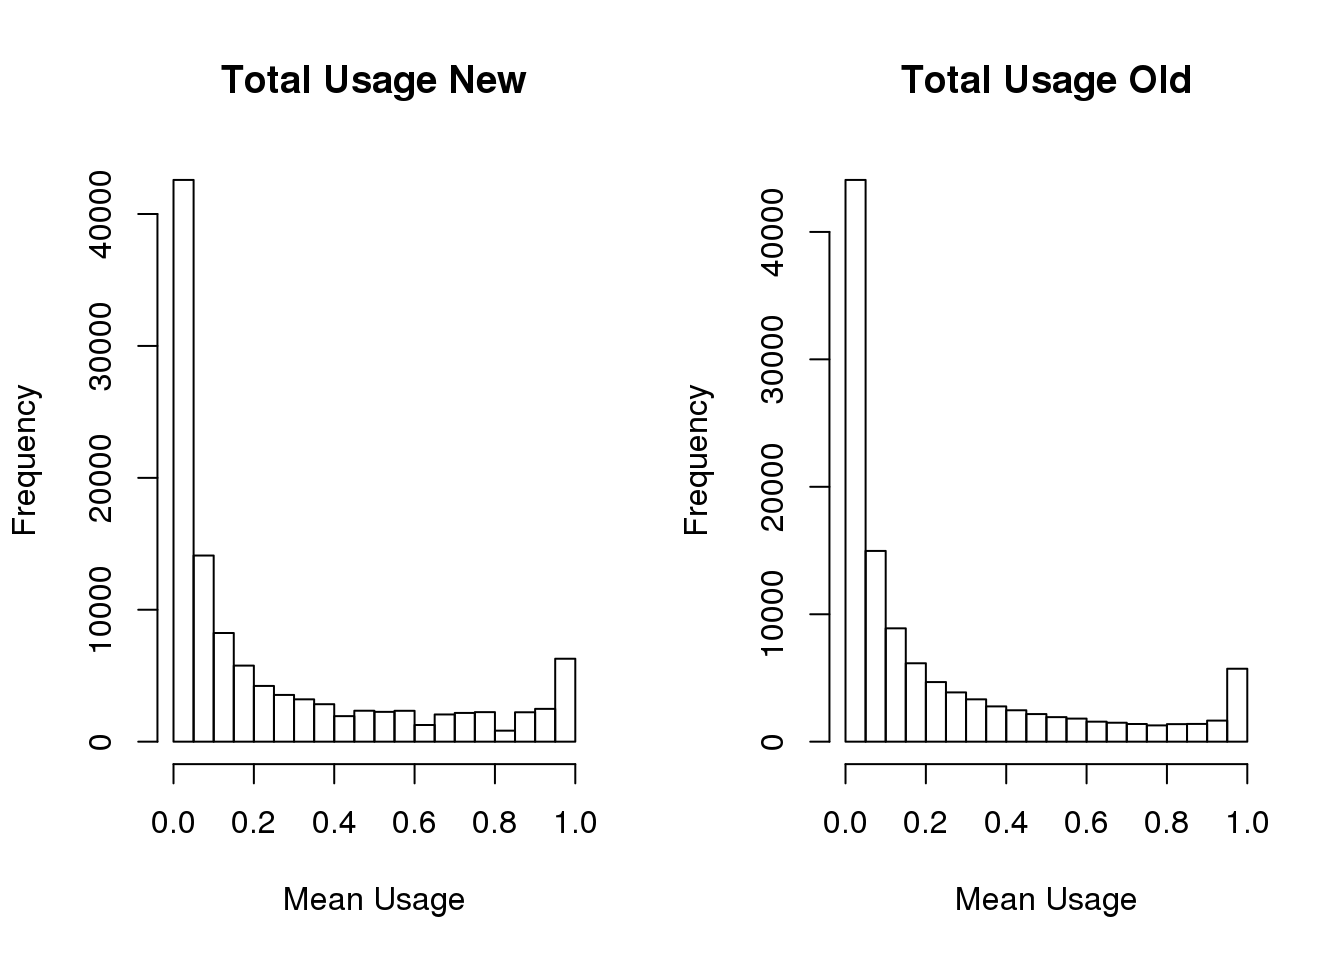
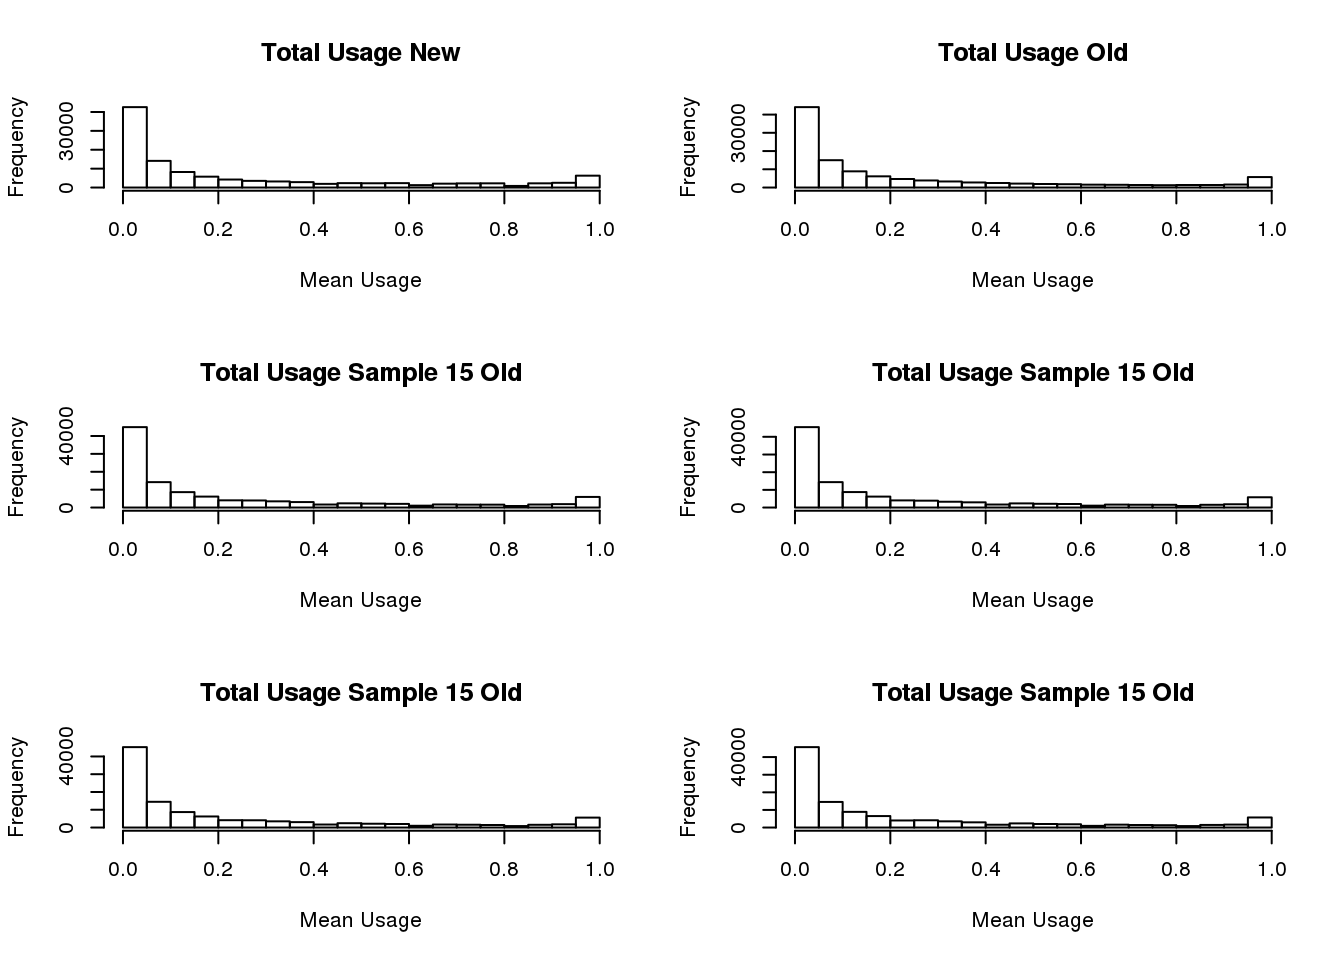
Build site.

diff --git a/docs/NewvOldPeakQC.html b/docs/NewvOldPeakQC.html
@@ -422,10 +422,10 @@ This reproducible <a href="http://rmarkdown.rstudio.com">R Markdown</a> analysis
 <div class="panel panel-default">
 <div class="panel-heading">
 <p class="panel-title">
-<a data-toggle="collapse" data-parent="#workflowr-checks" href="#strongRepositoryversionstrongahrefhttpsgithubcombrimittlemanapaQTLtreef5e6fd66e6d8d41ee88c200a55cb39e2d0494d66targetblankf5e6fd6a"> <span class="glyphicon glyphicon-ok text-success" aria-hidden="true"></span> <strong>Repository version:</strong> <a href="https://github.com/brimittleman/apaQTL/tree/f5e6fd66e6d8d41ee88c200a55cb39e2d0494d66" target="_blank">f5e6fd6</a> </a>
+<a data-toggle="collapse" data-parent="#workflowr-checks" href="#strongRepositoryversionstrongahrefhttpsgithubcombrimittlemanapaQTLtree3153f49ecd4c0b6cd0e0eb18401c762f33700c6btargetblank3153f49a"> <span class="glyphicon glyphicon-ok text-success" aria-hidden="true"></span> <strong>Repository version:</strong> <a href="https://github.com/brimittleman/apaQTL/tree/3153f49ecd4c0b6cd0e0eb18401c762f33700c6b" target="_blank">3153f49</a> </a>
 </p>
 </div>
[2 lines of base64/hex data omitted]
 <div class="panel-body">
 <p>
 Great! You are using Git for version control. Tracking code development and connecting the code version to the results is critical for reproducibility. The version displayed above was the version of the Git repository at the time these results were generated. <br><br> Note that you need to be careful to ensure that all relevant files for the analysis have been committed to Git prior to generating the results (you can use <code>wflow_publish</code> or <code>wflow_git_commit</code>). workflowr only checks the R Markdown file, but you know if there are other scripts or data files that it depends on. Below is the status of the Git repository when the results were generated:
@@ -605,6 +605,40 @@ Message
 </tr>
 </thead>
 <tbody>
+<tr>
+<td>
+Rmd
+</td>
+<td>
+<a href="https://github.com/brimittleman/apaQTL/blob/3153f49ecd4c0b6cd0e0eb18401c762f33700c6b/analysis/NewvOldPeakQC.Rmd" target="_blank">3153f49</a>
+</td>
+<td>
+brimittleman
+</td>
+<td>
+2019-05-01
+</td>
+<td>
+old hists
+</td>
+</tr>
+<tr>
+<td>
+html
+</td>
+<td>
+<a href="https://rawcdn.githack.com/brimittleman/apaQTL/15e195f787e3347dcffd6a0c82574e29700290a8/docs/NewvOldPeakQC.html" target="_blank">15e195f</a>
+</td>
+<td>
+brimittleman
+</td>
+<td>
+2019-05-01
+</td>
+<td>
+Build site.
+</td>
+</tr>
 <tr>
 <td>
 Rmd
@@ -810,23 +844,58 @@ newInd=batch4$line</code></pre>
   hist(meanVec, main=title,xlab=&quot;Mean Usage&quot;)
 }</code></pre>
 <p>RUn this for different itterations of individuals:</p>
-<pre class="r"><code>par(mfrow=c(1,2))
-#old ind
-UsageHist(indVec=newInd,title=&quot;Total Usage New&quot;,totUsage=totUsage)
-UsageHist(indVec=oldind,title=&quot;Total Usage Old&quot;,totUsage=totUsage)</code></pre>
-<p><img src="figure/NewvOldPeakQC.Rmd/unnamed-chunk-10-1.png" width="672" style="display: block; margin: auto;" /> Pick 15 random individuals from old:</p>
+<p>Pick 15 random individuals from old:</p>
 <pre class="r"><code>sampl1=sample(oldind, 15)
 sampl2=sample(oldind, 15)
 sampl3=sample(oldind, 15)
 sampl4=sample(oldind, 15)
 
 
-par(mfrow=c(2,2))
+par(mfrow=c(3,2))
+UsageHist(indVec=newInd,title=&quot;Total Usage New&quot;,totUsage=totUsage)
+UsageHist(indVec=oldind,title=&quot;Total Usage Old&quot;,totUsage=totUsage)
 UsageHist(indVec=sampl1,title=&quot;Total Usage Sample 15 Old&quot;,totUsage=totUsage)
 UsageHist(indVec=sampl2,title=&quot;Total Usage Sample 15 Old&quot;,totUsage=totUsage)
 UsageHist(indVec=sampl3,title=&quot;Total Usage Sample 15 Old&quot;,totUsage=totUsage)
 UsageHist(indVec=sampl4,title=&quot;Total Usage Sample 15 Old&quot;,totUsage=totUsage)</code></pre>
-<p><img src="figure/NewvOldPeakQC.Rmd/unnamed-chunk-11-1.png" width="672" style="display: block; margin: auto;" /></p>
+<p><img src="figure/NewvOldPeakQC.Rmd/unnamed-chunk-10-1.png" width="672" style="display: block; margin: auto;" /></p>
+<p>
+<button type="button" class="btn btn-default btn-xs btn-workflowr btn-workflowr-fig" data-toggle="collapse" data-target="#fig-unnamed-chunk-10-1">
+Past versions of unnamed-chunk-10-1.png
+</button>
+</p>
+<div id="fig-unnamed-chunk-10-1" class="collapse">
+<div class="table-responsive">
+<table class="table table-condensed table-hover">
+<thead>
+<tr>
+<th>
+Version
+</th>
+<th>
+Author
+</th>
+<th>
+Date
+</th>
+</tr>
+</thead>
+<tbody>
+<tr>
+<td>
+<a href="https://github.com/brimittleman/apaQTL/blob/15e195f787e3347dcffd6a0c82574e29700290a8/docs/figure/NewvOldPeakQC.Rmd/unnamed-chunk-10-1.png" target="_blank">15e195f</a>
+</td>
+<td>
+brimittleman
+</td>
+<td>
+2019-05-01
+</td>
+</tr>
+</tbody>
+</table>
+</div>
+</div>
 </div>
 <div id="nuclear" class="section level3">
 <h3>Nuclear</h3>
@@ -838,16 +907,74 @@ nucUsage=read.table(&quot;../data/phenotype/APApeak_Phenotype_GeneLocAnno.Nuclea
   meanVec=rowMeans(nucUsage_ind)
   hist(meanVec, main=title,xlab=&quot;Mean Usage&quot;)
 }</code></pre>
-<pre class="r"><code>par(mfrow=c(1,2))
+<pre class="r"><code>par(mfrow=c(3,2))
 UsageHist_nuc(indVec=newInd,title=&quot;Nuclear Usage New&quot;,nucUsage=nucUsage)
-UsageHist_nuc(indVec=oldind,title=&quot;Nuclear Usage Old&quot;,nucUsage=nucUsage)</code></pre>
-<p><img src="figure/NewvOldPeakQC.Rmd/unnamed-chunk-14-1.png" width="672" style="display: block; margin: auto;" /></p>
-<pre class="r"><code>par(mfrow=c(2,2))
+UsageHist_nuc(indVec=oldind,title=&quot;Nuclear Usage Old&quot;,nucUsage=nucUsage)
 UsageHist_nuc(indVec=sampl1,title=&quot;Nuclear Usage Sample 15 Old&quot;,nucUsage=nucUsage)
 UsageHist_nuc(indVec=sampl2,title=&quot;Nuclear Usage Sample 15 Old&quot;,nucUsage=nucUsage)
 UsageHist_nuc(indVec=sampl3,title=&quot;Nuclear Usage Sample 15 Old&quot;,nucUsage=nucUsage)
 UsageHist_nuc(indVec=sampl4,title=&quot;Nuclear Usage Sample 15 Old&quot;,nucUsage=nucUsage)</code></pre>
-<p><img src="figure/NewvOldPeakQC.Rmd/unnamed-chunk-15-1.png" width="672" style="display: block; margin: auto;" /> ```</p>
+<p><img src="figure/NewvOldPeakQC.Rmd/unnamed-chunk-13-1.png" width="672" style="display: block; margin: auto;" /></p>
+<p>Old</p>
+<pre class="r"><code>oldtotalCount=read.table(&quot;../../threeprimeseq/data/phenotypes_filtPeakTranscript_noMP_GeneLocAnno/filtered_APApeaks_merged_allchrom_refseqGenes.GeneLocAnno_NoMP_sm_quant.Total.fixed.pheno.fc&quot;,header=T,stringsAsFactors = F)
+indOld=colnames(oldtotalCount)[2:56]
+oldtotalUsage=read.table(&quot;../../threeprimeseq/data/phenotypes_filtPeakTranscript_noMP_GeneLocAnno/filtered_APApeaks_merged_allchrom_refseqGenes.GeneLocAnno_NoMP_sm_quant.Total.fixed.pheno.CountsOnlyNumeric.txt&quot;,col.names = indOld,stringsAsFactors = F)</code></pre>
+<pre class="r"><code>par(mfrow=c(3,2))
+UsageHist(indVec=newInd,title=&quot;Old total Usage&quot;,totUsage=oldtotalUsage)
+UsageHist(indVec=oldind,title=&quot;Old total Usage (39ind)&quot;,totUsage=oldtotalUsage)
+UsageHist(indVec=sampl1,title=&quot;Old total Usage sample 15 ind&quot;,totUsage=oldtotalUsage)
+UsageHist(indVec=sampl2,title=&quot;Old total Usage sample 15 ind&quot;,totUsage=oldtotalUsage)
+UsageHist(indVec=sampl3,title=&quot;Old total Usage sample 15 ind&quot;,totUsage=oldtotalUsage)
+UsageHist(indVec=sampl4,title=&quot;Old total Usage sample 15 ind&quot;,totUsage=oldtotalUsage)</code></pre>
+<p><img src="figure/NewvOldPeakQC.Rmd/unnamed-chunk-15-1.png" width="672" style="display: block; margin: auto;" /></p>
+<p>
+<button type="button" class="btn btn-default btn-xs btn-workflowr btn-workflowr-fig" data-toggle="collapse" data-target="#fig-unnamed-chunk-15-1">
+Past versions of unnamed-chunk-15-1.png
+</button>
+</p>
+<div id="fig-unnamed-chunk-15-1" class="collapse">
+<div class="table-responsive">
+<table class="table table-condensed table-hover">
+<thead>
+<tr>
+<th>
+Version
+</th>
+<th>
+Author
+</th>
+<th>
+Date
+</th>
+</tr>
+</thead>
+<tbody>
+<tr>
+<td>
+<a href="https://github.com/brimittleman/apaQTL/blob/15e195f787e3347dcffd6a0c82574e29700290a8/docs/figure/NewvOldPeakQC.Rmd/unnamed-chunk-15-1.png" target="_blank">15e195f</a>
+</td>
+<td>
+brimittleman
+</td>
+<td>
+2019-05-01
+</td>
+</tr>
+</tbody>
+</table>
+</div>
+</div>
+<pre class="r"><code>oldnuclearCount=read.table(&quot;../../threeprimeseq/data/phenotypes_filtPeakTranscript_noMP_GeneLocAnno/filtered_APApeaks_merged_allchrom_refseqGenes.GeneLocAnno_NoMP_sm_quant.Nuclear.fixed.pheno.fc&quot;,header=T,stringsAsFactors = F)
+indOldN=colnames(oldnuclearCount)[2:56]
+oldnuclearUsage=read.table(&quot;../../threeprimeseq/data/phenotypes_filtPeakTranscript_noMP_GeneLocAnno/filtered_APApeaks_merged_allchrom_refseqGenes.GeneLocAnno_NoMP_sm_quant.Nuclear.fixed.pheno.CountsOnlyNumeric.txt&quot;,col.names = indOldN,stringsAsFactors = F)</code></pre>
+<pre class="r"><code>par(mfrow=c(3,2))
+UsageHist_nuc(indVec=newInd,title=&quot;Old nuclear Usage&quot;,nucUsage=oldnuclearUsage)
+UsageHist_nuc(indVec=oldind,title=&quot;Old nuclear Usage (39ind)&quot;,nucUsage=oldnuclearUsage)
+UsageHist_nuc(indVec=sampl1,title=&quot;Old nuclear Usage sample 15 ind&quot;,nucUsage=oldnuclearUsage)
+UsageHist_nuc(indVec=sampl2,title=&quot;Old nuclear Usage sample 15 ind&quot;,nucUsage=oldnuclearUsage)
+UsageHist_nuc(indVec=sampl3,title=&quot;Old nuclear Usage sample 15 ind&quot;,nucUsage=oldnuclearUsage)
+UsageHist_nuc(indVec=sampl4,title=&quot;Old nuclear Usage sample 15 ind&quot;,nucUsage=oldnuclearUsage)</code></pre>
+<p><img src="figure/NewvOldPeakQC.Rmd/unnamed-chunk-17-1.png" width="672" style="display: block; margin: auto;" /></p>
 <br>
 <p>
 <button type="button" class="btn btn-default btn-workflowr btn-workflowr-sessioninfo" data-toggle="collapse" data-target="#workflowr-sessioninfo" style="display: block;">
